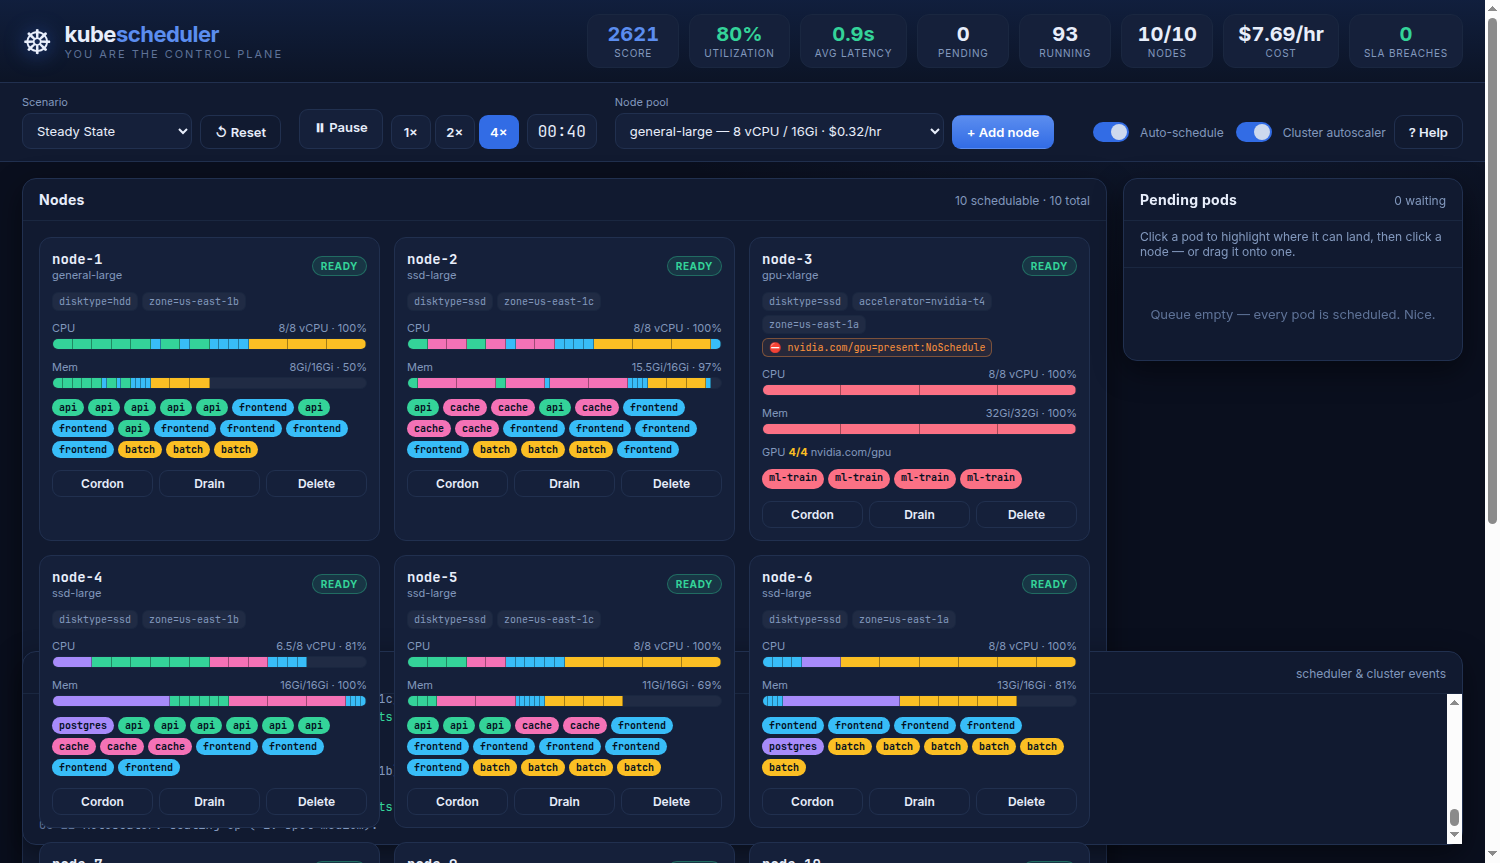
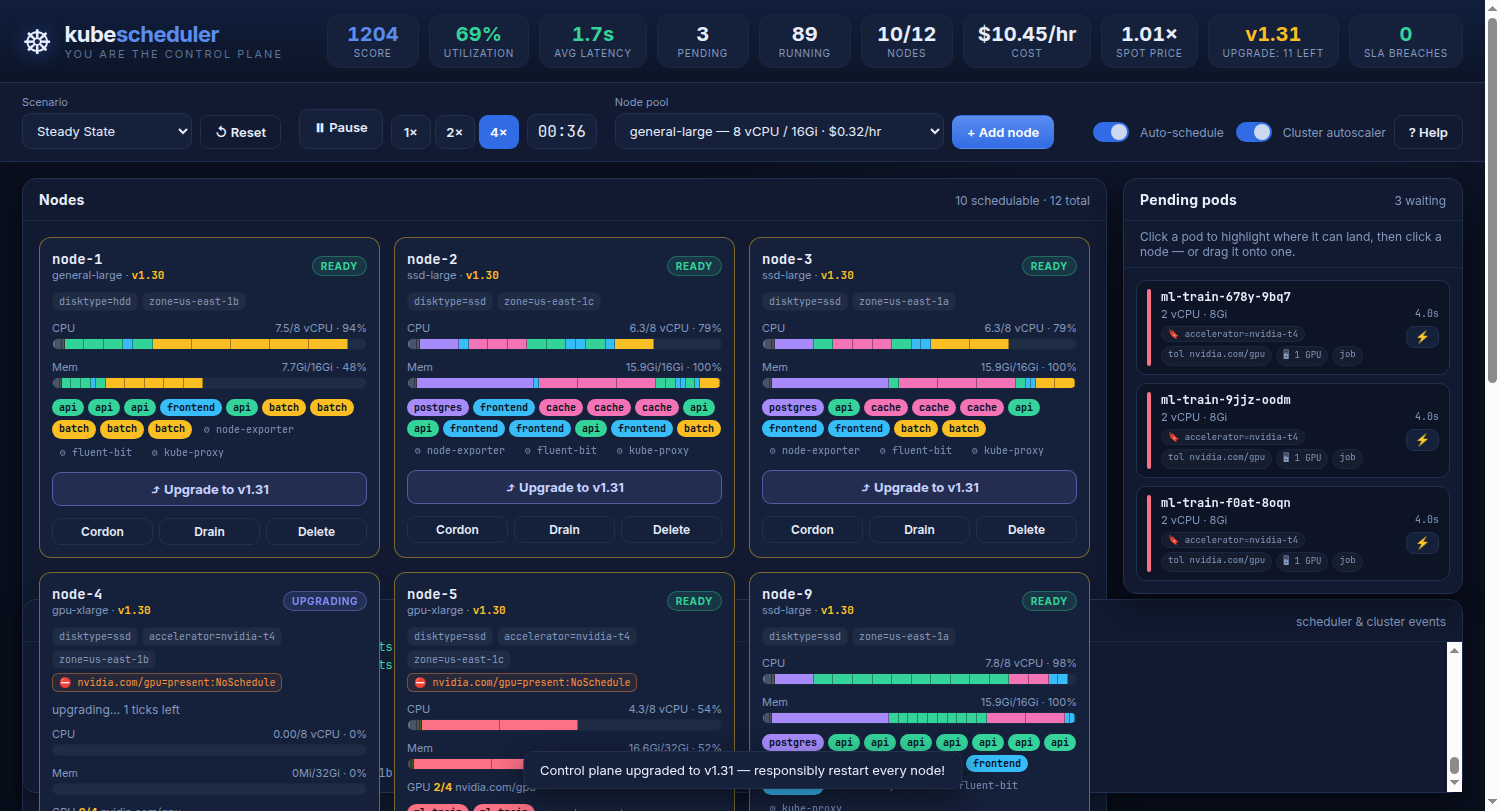
Document new mechanics; extend smoke test + refresh screenshot
- README covers DaemonSets, spot nodes/pricing/reclaims, and cluster
  upgrades, plus the updated scoring and KPIs.
- Headless smoke test builds a richer scene (spot node + in-progress
  upgrade) and asserts daemonset pods/chips render; new screenshot shows
  it all.

diff --git a/k8s-scheduler-game/README.md b/k8s-scheduler-game/README.md
@@ -8,6 +8,11 @@ anti-affinity — while deciding when to **provision new nodes** and when to **c
 and terminate** the ones you no longer need. Your score rewards low **scheduling latency**
 and high **utilization**, and punishes wasted spend, SLA breaches, and disruptive evictions.
 
+You'll also have to handle the things that make running a real cluster hard:
+**DaemonSets** that put per-node overhead on every machine, **spot nodes** that are dirt cheap
+at a fluctuating price but get **reclaimed without warning**, and **Kubernetes version upgrades**
+that force you to responsibly restart every node without dropping your workloads.
+
 ![Screenshot of the game](docs/screenshot.png)
 
 It is written in **zero-dependency vanilla ES modules** (no framework, no build step) and
@@ -51,17 +56,38 @@ Keep the queue empty, keep nodes busy, and don't overspend.
 | **Pod anti-affinity (soft / spread)** | The scheduler _prefers_ to spread replicas across nodes (used by `frontend`/`api`); influences scoring, never blocks. |
 | **Cordon / not-ready** | Cordoned or still-booting nodes won't accept new pods. |
 
+### Curveballs
+
+- **DaemonSets** ⚙ — the controller automatically runs node agents (`node-exporter`,
+  `fluent-bit`, `kube-proxy`, and a GPU `nvidia-device-plugin` on GPU nodes) on **every**
+  matching node. They tolerate every taint, can't be moved, and consume capacity everywhere —
+  so they're per-node overhead that rewards running **fewer, larger** nodes. `kubectl drain`
+  leaves them alone; they're recreated whenever a node joins or finishes an upgrade.
+- **Spot nodes** ⚡ — `spot-medium`/`spot-large` cost a fraction of on-demand, but they're
+  billed at a **fluctuating spot price** and the cloud can **reclaim them at any time**. You get
+  a brief **Reclaiming** countdown to drain them gracefully; if you don't, their pods are
+  evicted back to the queue. Only put fault-tolerant work (e.g. `batch`) on spot.
+- **Cluster upgrades** — every so often the control plane jumps a minor version and every node
+  falls behind (its version badge turns amber). Restart them **responsibly** — a few at a time,
+  so workloads always have somewhere to land — using each node's **⤴ Upgrade** button (drain +
+  reboot onto the new version). Out-of-date nodes bleed score until the rollout finishes, and
+  completing the whole fleet pays a bonus.
+
 ### Operating the cluster
 
 - **➕ Add node** — provision capacity from a node pool. New nodes spend time **Provisioning**
   (and cost money the whole time) before they go **Ready**.
 - **Cordon** — mark a node unschedulable without disturbing its running pods.
-- **Drain** — cordon **and** gracefully evict its pods back to the queue (small penalty).
+- **Drain** — cordon **and** gracefully evict its **workload** pods back to the queue (small
+  penalty); DaemonSet pods stay put.
+- **⤴ Upgrade** — appears on out-of-date nodes: drains then reboots the node onto the current
+  Kubernetes version.
 - **Delete** — terminate a node. Any pods still on it are **force-killed** (big penalty) — so
   drain first!
 
-Flip on **Auto-schedule** and **Cluster autoscaler** to watch a baseline policy play the game,
-then turn them off and try to beat it by hand.
+Flip on **Auto-schedule** and **Cluster autoscaler** to watch a baseline policy play the game —
+it auto-places pods, scales capacity, recovers from spot reclaims, and performs a safe **rolling
+upgrade** when a new version lands — then turn them off and try to beat it by hand.
 
 ---
 
@@ -77,13 +103,17 @@ score += utilization × 30
 ```
 
 Plus one-off effects: finishing a job **+8**, a graceful drain eviction **−2/pod**, a forced
-kill **−10/pod**, and an SLA breach (a pod left pending too long) **−40**.
+kill **−10/pod**, an SLA breach (a pod left pending too long) **−40**, a spot reclaim **−1.5/pod**,
+and—while an upgrade is pending—**−0.3/tick** for every node still out of date, offset by a
+**+35** bonus when the whole fleet finishes the rollout. Spot nodes are billed at the **live
+spot price**, so cheap capacity gets pricier (and more interruption-prone) when the market spikes.
 
 The headline KPIs in the top bar are the ones the prompt asks you to optimize:
 
 - **Utilization** — average CPU+memory packing across the nodes you're paying for.
 - **Avg latency** — mean time pods waited in `Pending` before being scheduled.
-- …alongside pending/running counts, ready/total nodes, hourly cost, and SLA breaches.
+- …alongside pending/running counts, ready/total nodes, hourly cost, **spot price**, the current
+  **cluster version** (with how many nodes still need upgrading), and SLA breaches.
 
 ---
 
@@ -97,7 +127,9 @@ The headline KPIs in the top bar are the ones the prompt asks you to optimize:
 | **Production Chaos** | Everything at once, high churn across every workload type. Hard mode. |
 
 Workloads are minted from `Deployment`-like templates with bounded replica counts (so the
-cluster reaches a steady state), and the arrival stream is seeded for reproducible runs.
+cluster reaches a steady state), and the arrival stream is seeded for reproducible runs. Every
+scenario also throws periodic **cluster upgrades** at you (more often in Chaos), and spot
+interruptions can strike whenever you're running spot capacity.
 
 ---
 
@@ -133,9 +165,11 @@ npm test          # node --test — predicate, engine, soak & balance tests (no 
 ```
 
 The suite covers the scheduling predicates (resources, selectors, taints, anti-affinity,
-cordon), engine actions (schedule/drain/evict/job-completion), the autoscaler, determinism of
-the workload generator, a long "soak" run that asserts the cluster never overcommits a node,
-and a balance check that every scenario stays healthy under full automation.
+cordon), engine actions (schedule/drain/evict/job-completion), the autoscaler, **DaemonSet**
+reconciliation and overhead, **spot** reclamation and price bounds, **node upgrades** (drain +
+reboot, rollout-completion bonus, and the autopilot's rolling upgrade), determinism of the
+workload generator, a long "soak" run that asserts the cluster never overcommits a node, and a
+balance check that every scenario stays healthy under full automation.
 
 An optional end-to-end check drives the real UI in headless Chrome (no npm deps — it uses
 Node's built-in `fetch`/`WebSocket` over the DevTools Protocol):
